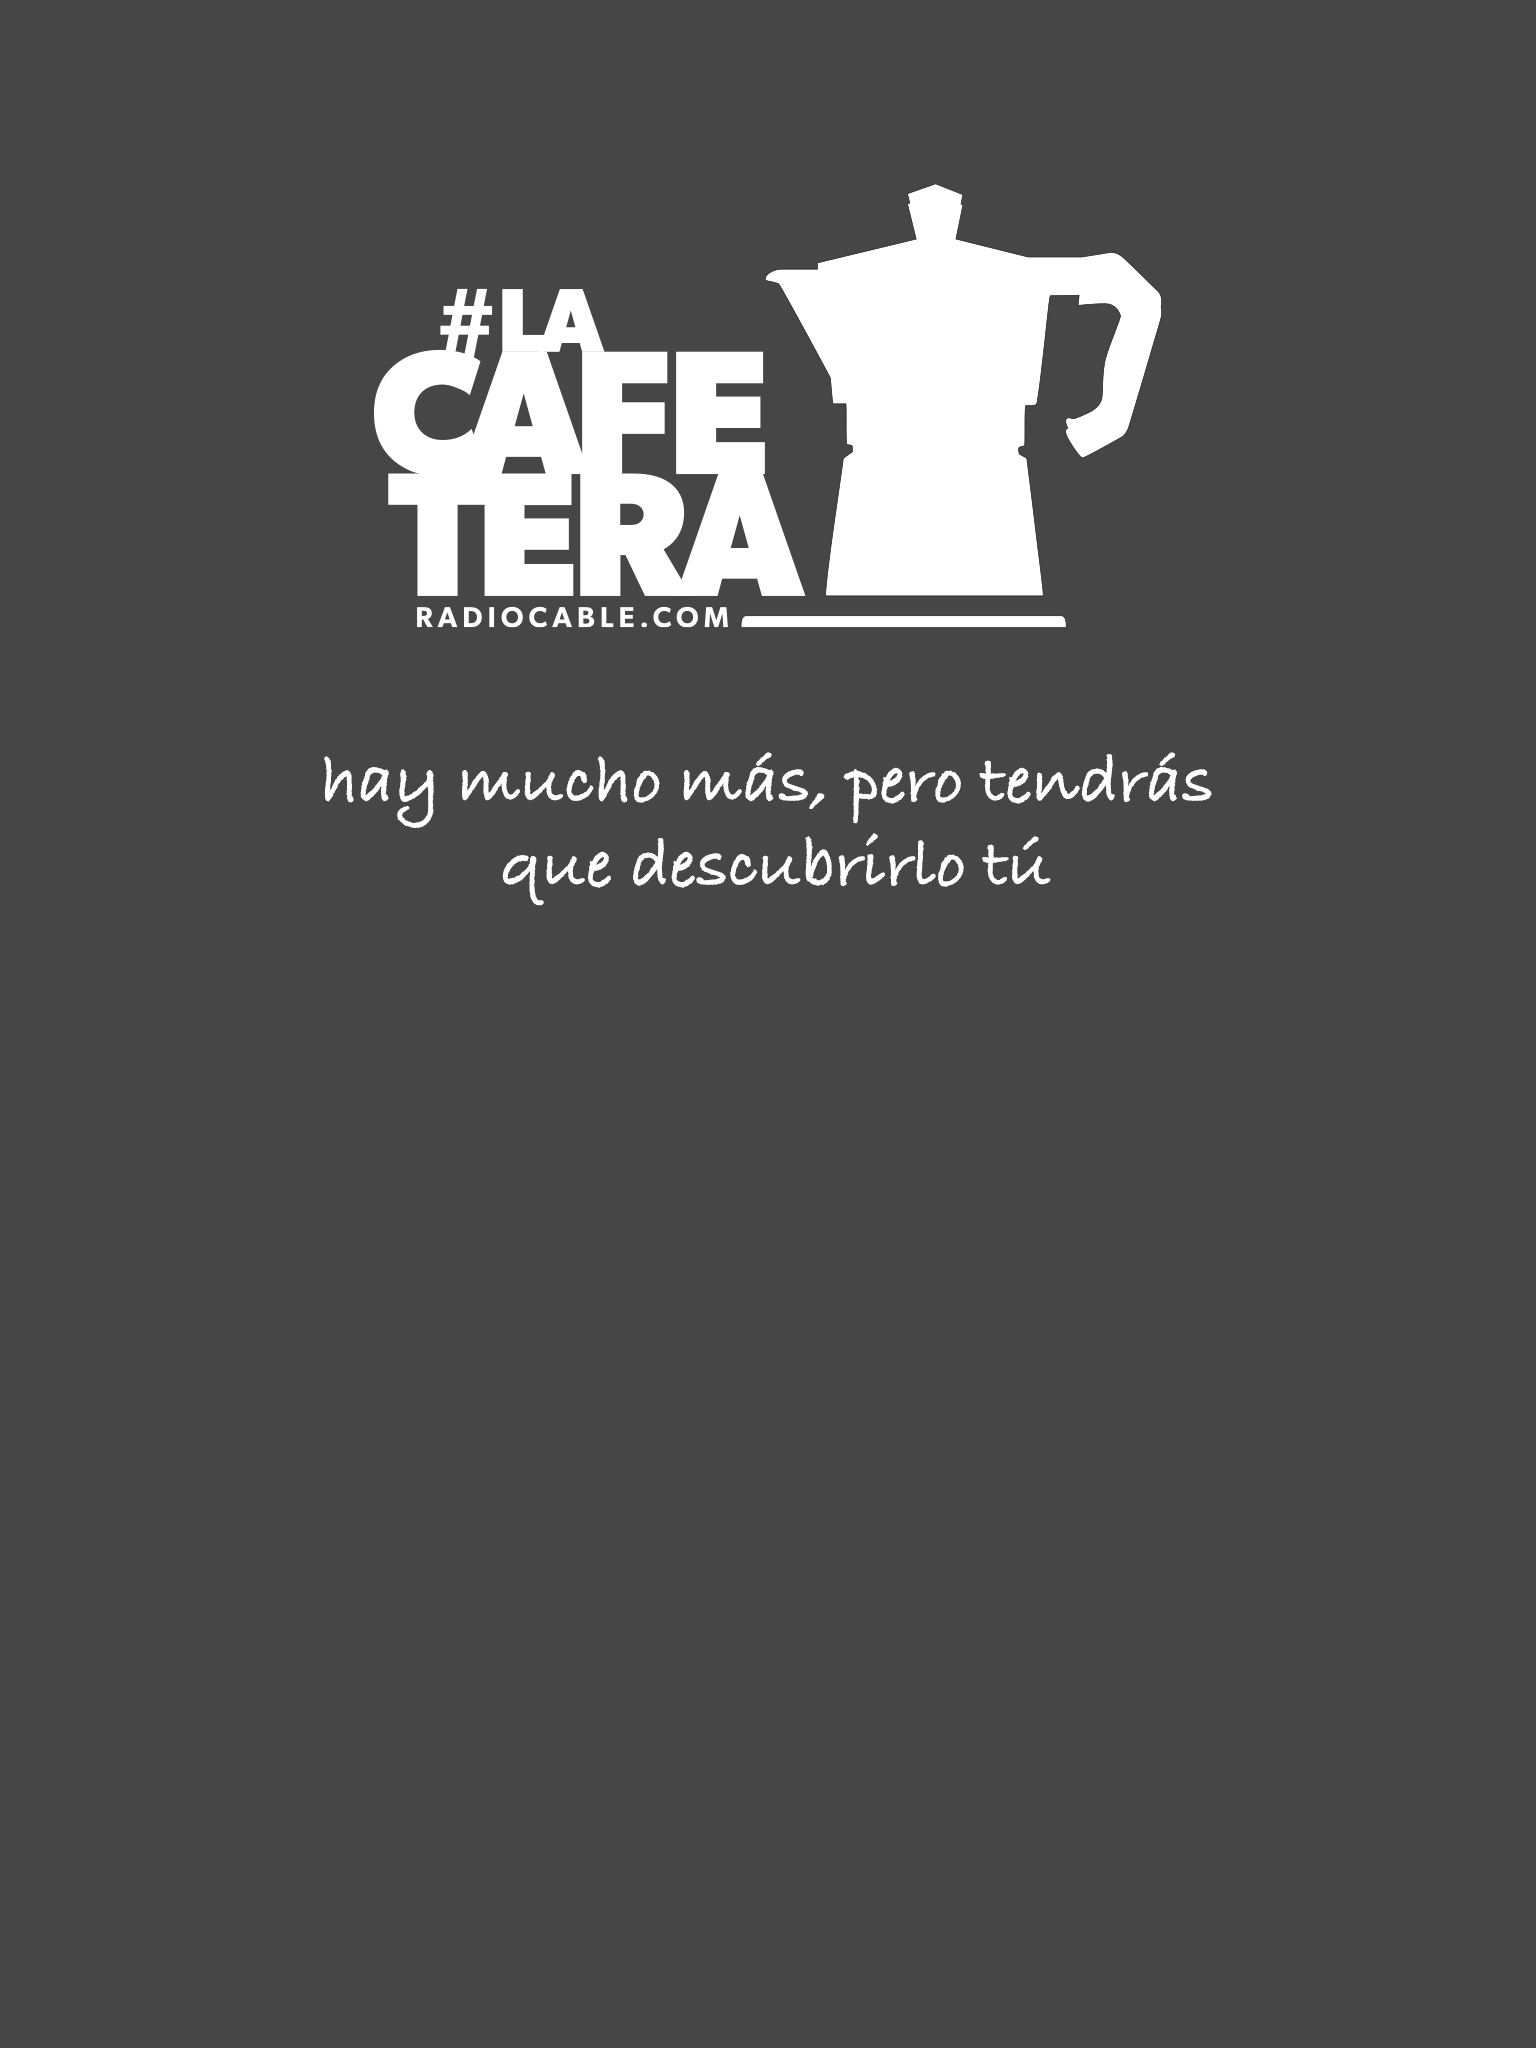
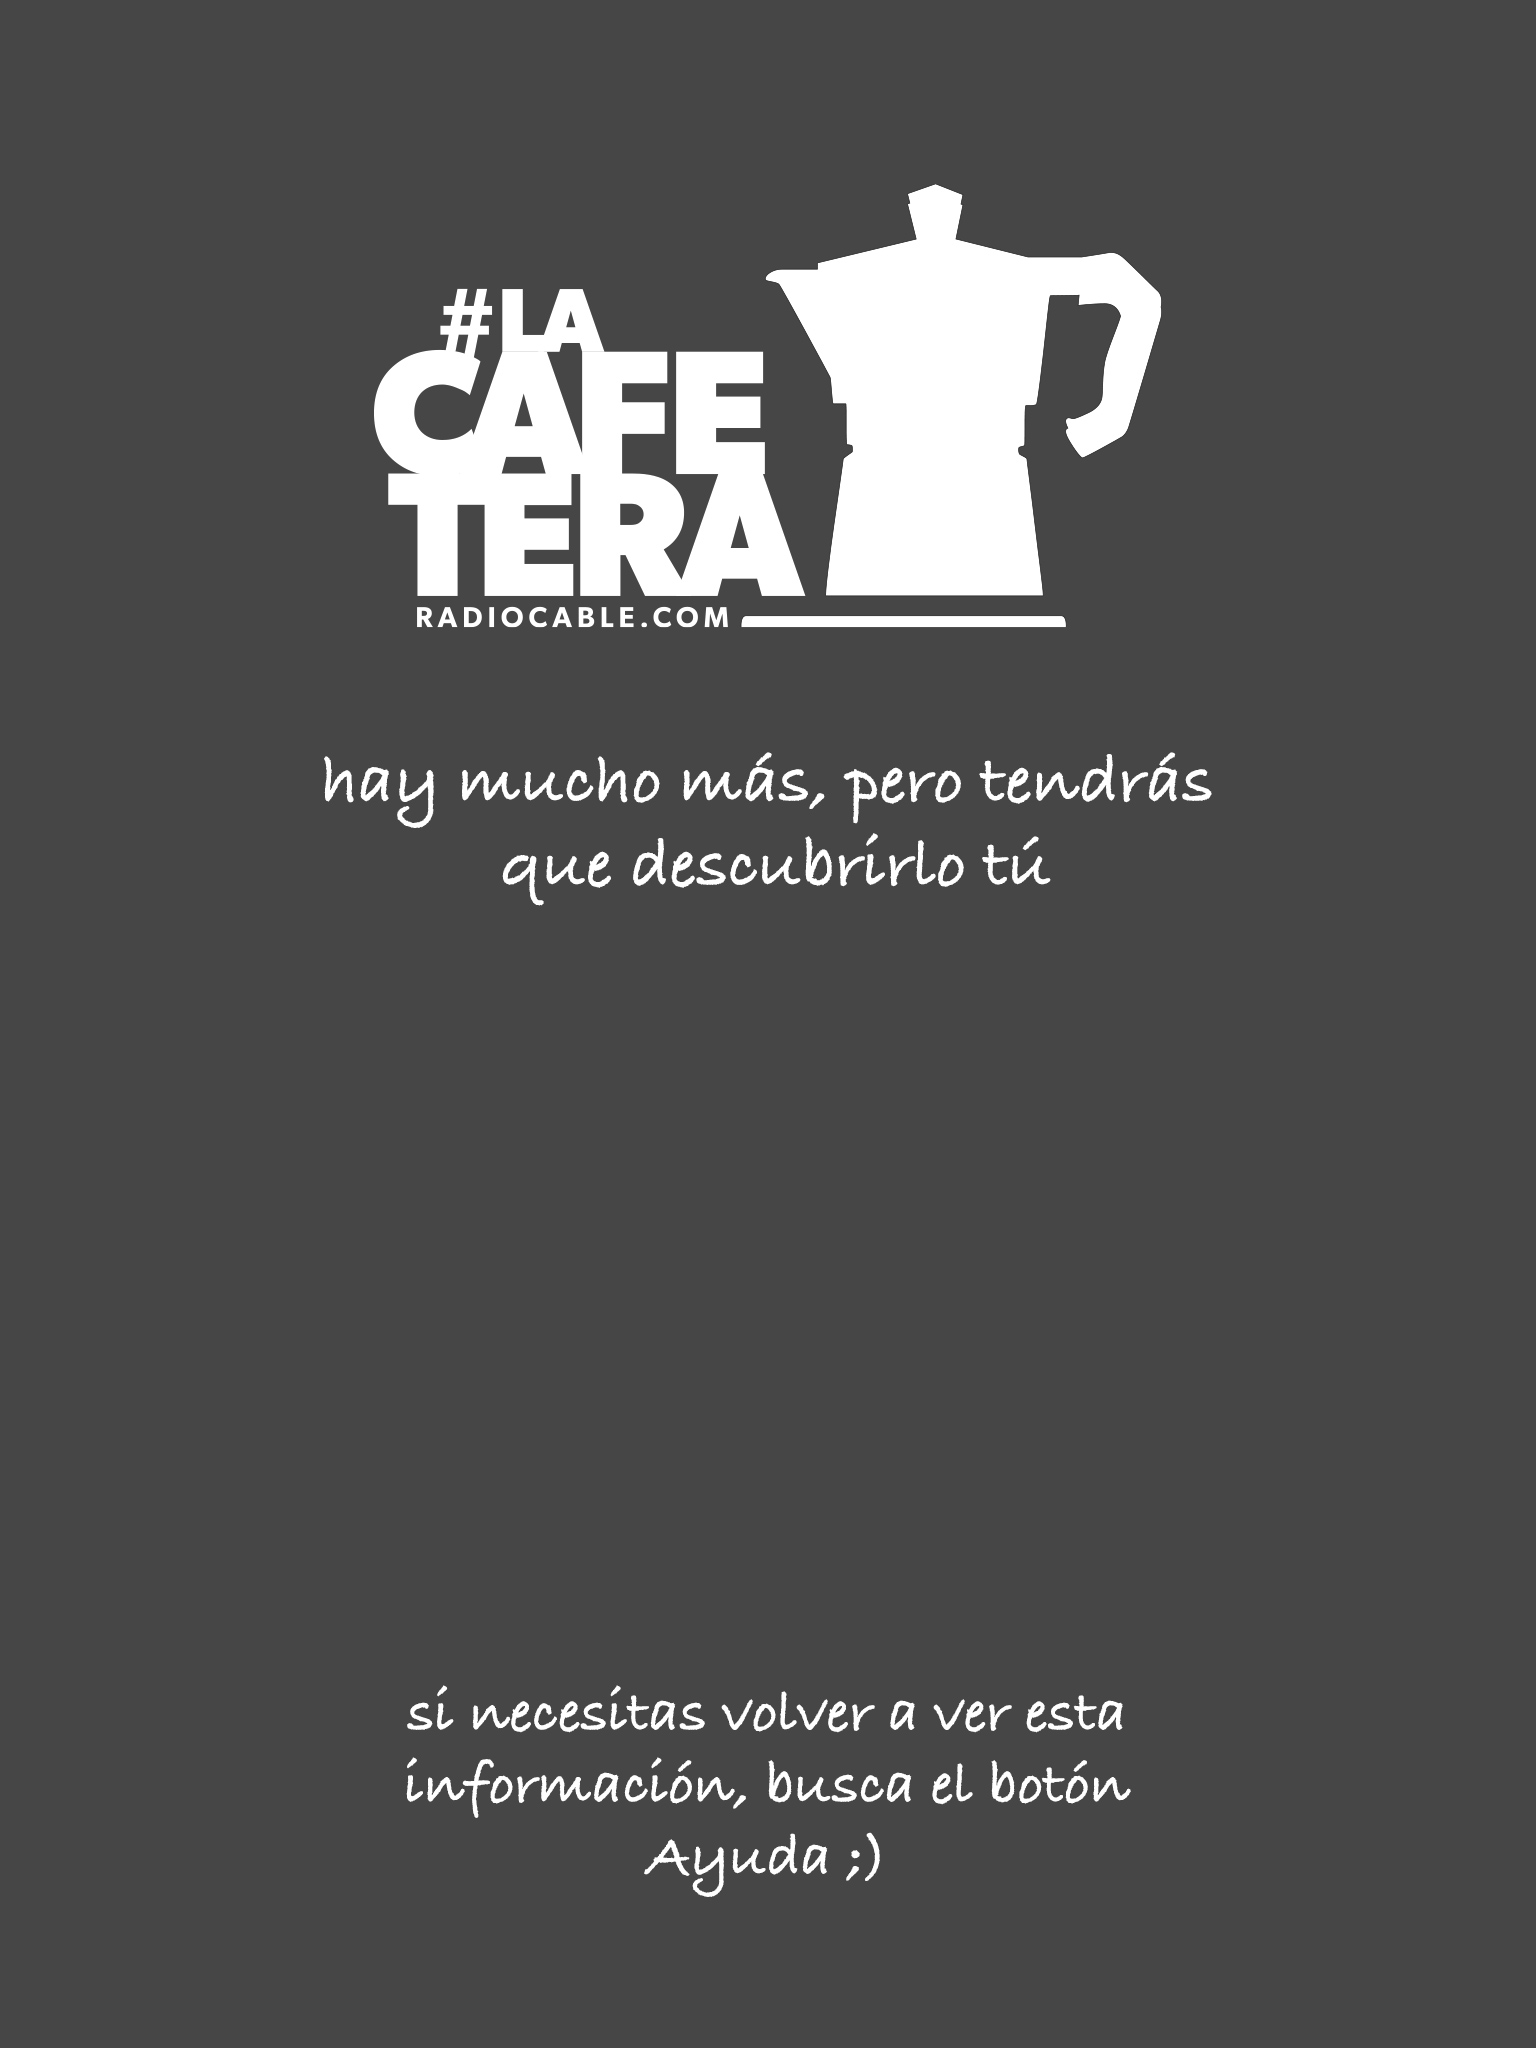
Nuevas capturas para slide y botón ayuda
cambio de color de botón empezar
instrucciones para volver a ayuda

Changed region(s): [[0.25, 0.8125, 0.75, 0.9375]]

diff --git a/src/app/app.html b/src/app/app.html
@@ -43,7 +43,7 @@
             </ion-item>
 
             <ion-item>
-                <button ion-button full menuToggle (click)="ayuda()">ayuda</button>
+                <button ion-button full menuToggle (click)="ayuda()">Ayuda</button>
             </ion-item>
 
             <ion-item>

diff --git a/src/pages/slide-inicio/slide-inicio.scss b/src/pages/slide-inicio/slide-inicio.scss
@@ -17,7 +17,7 @@ page-slide-inicio {
         top: 50%;
         left: 50%;
         transform: translate(-50%, -50%);
-        color: white;
+        color: #F55;
         font-family: "roboto";
         font-size: 2rem;
         font-weight: bold;
